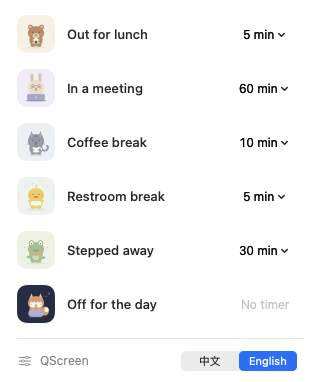
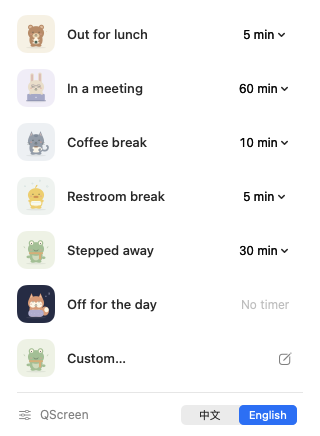
Add custom reason editor with typed minutes and character selection

diff --git a/App/Views.swift b/App/Views.swift
@@ -73,6 +73,20 @@ struct MainView: View {
                             .contentShape(Rectangle())
                     }.buttonStyle(.plain).padding(.bottom, 5)
                 }
+                Button { model.openCustomEditor() } label: {
+                    HStack(spacing: 12) {
+                        Image(systemName: "square.and.pencil").font(.system(size: 18)).frame(width: 52)
+                        Text(model.text("自定义", "Custom")).font(.system(size: 14, weight: .medium))
+                        Spacer()
+                        if model.selectedReason == "custom" && !model.settingsVisible {
+                            Circle().fill(accent).frame(width: 7, height: 7)
+                        }
+                    }
+                    .padding(.horizontal, 9).frame(height: 42)
+                    .background(model.selectedReason == "custom" && !model.settingsVisible ? Color.white.opacity(0.8) : .clear)
+                    .clipShape(RoundedRectangle(cornerRadius: 12))
+                    .contentShape(Rectangle())
+                }.buttonStyle(.plain)
                 Spacer(minLength: 18)
                 Button {
                     model.settingsVisible.toggle()
@@ -93,7 +107,20 @@ struct MainView: View {
                     SettingsView(model: model)
                 } else {
                     HStack {
-                        Text(model.characterName(model.selectedReason)).font(.system(size: 14, weight: .medium))
+                        if model.selectedReason == "custom" {
+                            Menu {
+                                ForEach(model.reasons, id: \.self) { reason in
+                                    Button(model.characterName(reason)) { model.setCustomCharacter(reason) }
+                                }
+                            } label: {
+                                Text(model.characterName(model.customCharacter))
+                                    .font(.system(size: 14, weight: .medium))
+                            }
+                            .menuStyle(.borderlessButton).fixedSize()
+                            .accessibilityLabel(model.text("选择角色", "Choose character"))
+                        } else {
+                            Text(model.characterName(model.selectedReason)).font(.system(size: 14, weight: .medium))
+                        }
                         Spacer()
                         Button { model.showPreview?() } label: { Label(model.text("全屏预览", "Full-screen preview"), systemImage: "arrow.up.left.and.arrow.down.right") }
                             .buttonStyle(.plain).font(.system(size: 12)).foregroundStyle(.secondary)
@@ -101,6 +128,15 @@ struct MainView: View {
                     CharacterScene(session: model.sceneSession)
                         .clipShape(RoundedRectangle(cornerRadius: 22))
                         .overlay(RoundedRectangle(cornerRadius: 22).stroke(ink.opacity(0.06), lineWidth: 1))
+                    if model.selectedReason == "custom" {
+                        HStack(spacing: 12) {
+                            Text(model.text("理由", "Reason")).font(.system(size: 13)).foregroundStyle(.secondary)
+                            TextField(model.text("例如：出门遛狗", "e.g. Walking the dog"), text: Binding(get: { model.customReason }, set: { model.setCustomReason($0) }))
+                                .textFieldStyle(.roundedBorder).font(.system(size: 14))
+                                .accessibilityLabel(model.text("自定义离席理由", "Custom away reason"))
+                            Text("\(model.customReason.count)/40").font(.system(size: 11)).monospacedDigit().foregroundStyle(.secondary)
+                        }.padding(.top, 16)
+                    }
                     HStack(spacing: 10) {
                         if model.selectedReason != "offwork" {
                             Text(model.text("返回时间", "Return in")).font(.system(size: 13)).foregroundStyle(.secondary)
@@ -113,9 +149,7 @@ struct MainView: View {
                                         .clipShape(RoundedRectangle(cornerRadius: 8))
                                 }.buttonStyle(.plain)
                             }
-                            Stepper(value: Binding(get: { model.duration }, set: { model.setDuration($0) }), in: 1...480) {
-                                Text(model.minutesText(model.duration)).monospacedDigit().font(.system(size: 13)).frame(width: 70)
-                            }.fixedSize()
+                            DurationInput(model: model, reason: model.selectedReason).id(model.selectedReason)
                         } else {
                             Label(model.text("展示 5 分钟后允许熄屏", "Display may sleep after 5 minutes"), systemImage: "moon.zzz").font(.system(size: 13)).foregroundStyle(.secondary)
                             Spacer()
@@ -130,7 +164,7 @@ struct MainView: View {
                             Label(model.starting ? model.text("正在启动…", "Starting…") : model.text("开始离席并锁屏", "Start & lock"), systemImage: "lock.fill")
                                 .font(.system(size: 14, weight: .semibold)).padding(.horizontal, 17).padding(.vertical, 13)
                                 .foregroundStyle(.white).background(accent).clipShape(RoundedRectangle(cornerRadius: 12))
-                        }.buttonStyle(.plain).keyboardShortcut(.return, modifiers: .command).disabled(model.starting)
+                        }.buttonStyle(.plain).keyboardShortcut(.return, modifiers: .command).disabled(!model.canStart).opacity(model.canStart ? 1 : 0.45)
                     }.padding(.top, 15)
                 }
             }.padding(28).frame(maxWidth: .infinity, maxHeight: .infinity).background(Color.white)
@@ -264,6 +298,22 @@ struct QuickPicker: View {
                     .clipShape(RoundedRectangle(cornerRadius: 11))
                     .onHover { inside in hoveredReason = inside ? reason : nil }
                 }
+                Button { model.openCustomEditor() } label: {
+                    HStack(spacing: 12) {
+                        CharacterScene(session: model.customSceneSession, characterOnly: true, animated: false)
+                            .frame(width: 38, height: 38).clipShape(RoundedRectangle(cornerRadius: 10))
+                        Text(model.text("自定义…", "Custom…")).font(.system(size: 13, weight: .medium))
+                        Spacer()
+                        Image(systemName: "square.and.pencil").foregroundStyle(.secondary).padding(.trailing, 10)
+                    }
+                    .padding(.horizontal, 9).frame(height: 52)
+                    .background(hoveredReason == "custom" ? Color.primary.opacity(0.055) : .clear)
+                    .clipShape(RoundedRectangle(cornerRadius: 11))
+                    .contentShape(Rectangle())
+                }
+                .buttonStyle(.plain)
+                .disabled(model.starting)
+                .onHover { inside in hoveredReason = inside ? "custom" : nil }
             }
             .padding(8)
             Divider().padding(.horizontal, 17)
@@ -302,5 +352,25 @@ struct LanguageSwitch: View {
         .pickerStyle(.segmented)
         .controlSize(.small)
         .frame(width: 126)
+    }
+}
+
+struct DurationInput: View {
+    @ObservedObject var model: QScreenModel
+    let reason: String
+
+    var body: some View {
+        HStack(spacing: 6) {
+            TextField(model.text("分钟", "Minutes"), value: Binding(get: { model.durations[reason] ?? QSDefaultMinutes(reason) }, set: { model.setDuration($0, reason: reason) }), format: .number.grouping(.never))
+                .textFieldStyle(.roundedBorder)
+                .multilineTextAlignment(.trailing)
+                .monospacedDigit().font(.system(size: 13))
+                .frame(width: 48)
+                .help(model.text("1–480 分钟", "1–480 minutes"))
+                .accessibilityIdentifier("duration-input")
+            Text(model.text("分钟", "min")).font(.system(size: 13)).foregroundStyle(.secondary)
+            Stepper(model.text("分钟", "Minutes"), value: Binding(get: { model.durations[reason] ?? QSDefaultMinutes(reason) }, set: { model.setDuration($0, reason: reason) }), in: 1...480)
+                .labelsHidden().fixedSize()
+        }.fixedSize()
     }
 }

diff --git a/App/QScreenModel.swift b/App/QScreenModel.swift
@@ -15,6 +15,8 @@ final class QScreenModel: ObservableObject {
     @Published var overtime = QSStateStore.overtimeMinutes()
     @Published var hotkeyAvailable = true
     @Published private(set) var language = QSStateStore.language()
+    @Published private(set) var customReason = QSStateStore.customReason()
+    @Published private(set) var customCharacter = QSStateStore.customCharacter()
     var languageDidChange: (() -> Void)?
     var showWindow: (() -> Void)?
     var showPreview: (() -> Void)?
@@ -30,6 +32,8 @@ final class QScreenModel: ObservableObject {
     }
     var ready: Bool { installed && lockPolicy == .immediate && selectedInSystem }
     var duration: Int { durations[selectedReason] ?? QSDefaultMinutes(selectedReason) }
+    var customReasonValid: Bool { !QSNormalizedCustomReason(customReason).isEmpty }
+    var canStart: Bool { !starting && (selectedReason != "custom" || customReasonValid) }
     func text(_ chinese: String, _ english: String) -> String { language == "en" ? english : chinese }
     func reasonTitle(_ reason: String) -> String { QSReasonTitleInLanguage(reason, language) }
     func characterName(_ reason: String) -> String { QSCharacterNameInLanguage(reason, language) }
@@ -41,13 +45,38 @@ final class QScreenModel: ObservableObject {
         languageDidChange?()
     }
     var sceneSession: NSDictionary {
-        let session = NSMutableDictionary(dictionary: QSSession(selectedReason, duration, Date().timeIntervalSince1970))
+        makeSession(reason: selectedReason, minutes: duration)
+    }
+    var customSceneSession: NSDictionary {
+        makeSession(reason: "custom", minutes: durations["custom"] ?? 15)
+    }
+    private func makeSession(reason: String, minutes: Int) -> NSDictionary {
+        let value = reason == "custom" ? QSCustomSession(customReason, customCharacter, minutes, Date().timeIntervalSince1970)
+                                       : QSSession(reason, minutes, Date().timeIntervalSince1970)
+        let session = NSMutableDictionary(dictionary: value)
         session["language"] = language
         return session
     }
 
+    func setCustomReason(_ value: String) {
+        customReason = String(value.prefix(40))
+        QSStateStore.setCustomReason(customReason)
+    }
+    func setCustomCharacter(_ value: String) {
+        guard reasons.contains(value) else { return }
+        customCharacter = value
+        QSStateStore.setCustomCharacter(value)
+    }
+    func openCustomEditor() {
+        selectedReason = "custom"
+        settingsVisible = false
+        dismissPopover?()
+        showWindow?()
+    }
+
     init() {
         for reason in reasons { durations[reason] = QSStateStore.minutes(forReason: reason) }
+        durations["custom"] = QSStateStore.minutes(forReason: "custom")
         refreshReadiness()
         refreshLockPolicy()
         let stored = QSStateStore.readSession() as NSDictionary
@@ -80,12 +109,15 @@ final class QScreenModel: ObservableObject {
 
     func chooseAndStart(_ reason: String) {
         guard !starting else { return }
+        if reason == "custom" { openCustomEditor(); return }
         selectedReason = reason
         startAway()
     }
 
     func startAway(reason overrideReason: String? = nil, minutes overrideMinutes: Int? = nil) {
         guard !starting else { return }
+        // Commit a typed minute value before reading it, including Command-Return.
+        if let window = NSApp.keyWindow, !window.makeFirstResponder(nil) { return }
         refreshReadiness()
         Diagnostics.log("away.request installed=\(installed) selection=\(selectedInSystem)")
         guard installed && selectedInSystem else {
@@ -95,6 +127,12 @@ final class QScreenModel: ObservableObject {
             return
         }
         let reason = overrideReason ?? selectedReason, minutes = overrideMinutes ?? duration
+        let customTitle = QSNormalizedCustomReason(customReason), character = customCharacter
+        guard reason != "custom" || !customTitle.isEmpty else {
+            openCustomEditor()
+            error = text("请填写离席理由。", "Enter an away reason.")
+            return
+        }
         starting = true
         Task { [weak self] in
             guard let self else { return }
@@ -111,7 +149,8 @@ final class QScreenModel: ObservableObject {
                 self.error = self.text("请先在系统锁屏设置中，将启动屏保后要求输入密码设为「立即」。", "In System Settings → Lock Screen, set the password requirement after the screen saver begins to Immediately.")
                 return
             }
-            let session = QSSession(reason, minutes, Date().timeIntervalSince1970)
+            let session = reason == "custom" ? QSCustomSession(customTitle, character, minutes, Date().timeIntervalSince1970)
+                                             : QSSession(reason, minutes, Date().timeIntervalSince1970)
             guard QSStateStore.writeSession(session) else {
                 Diagnostics.log("away.save.failed")
                 self.error = self.text("未能保存离席状态，请重试。", "Could not save your away status. Please try again.")

diff --git a/App/AppDelegate.swift b/App/AppDelegate.swift
@@ -202,7 +202,7 @@ final class AppDelegate: NSObject, NSApplicationDelegate, NSWindowDelegate {
             container.addSubview(scene)
             let hint = NSTextField(labelWithString: model.text("预览 · 按任意键或点击退出", "Preview · Press any key or click to exit"))
             hint.font = .systemFont(ofSize: 12)
-            hint.textColor = model.selectedReason == "offwork" ? .white.withAlphaComponent(0.65) : .secondaryLabelColor
+            hint.textColor = QSSceneCharacter(session as! [AnyHashable: Any]) == "offwork" ? .white.withAlphaComponent(0.65) : .secondaryLabelColor
             hint.alignment = .center
             hint.frame = NSRect(x: 20, y: 20, width: scene.frame.width - 40, height: 24)
             hint.autoresizingMask = [.width, .maxYMargin]
@@ -233,6 +233,24 @@ final class AppDelegate: NSObject, NSApplicationDelegate, NSWindowDelegate {
         view.cacheDisplay(in: view.bounds, to: bitmap)
         let data = bitmap.representation(using: .png, properties: [:])
         try? data?.write(to: URL(fileURLWithPath: path))
+    }
+
+    private func enterText(_ value: String, placeholder: String) -> Bool {
+        func findField(_ view: NSView) -> NSTextField? {
+            if let field = view as? NSTextField, field.placeholderString == placeholder { return field }
+            for child in view.subviews {
+                if let field = findField(child) { return field }
+            }
+            return nil
+        }
+        guard let view = window?.contentView, let field = findField(view) else { return false }
+        window?.makeKeyAndOrderFront(nil)
+        guard window?.makeFirstResponder(field) == true, let editor = field.currentEditor() as? NSTextView else { return false }
+        editor.selectAll(nil)
+        editor.insertText(value, replacementRange: editor.selectedRange())
+        window?.makeFirstResponder(nil)
+        RunLoop.main.run(until: Date().addingTimeInterval(0.1))
+        return true
     }
 
     private func runSmokeTest() {
@@ -291,6 +309,33 @@ final class AppDelegate: NSObject, NSApplicationDelegate, NSWindowDelegate {
         }
         model.setLanguage(originalLanguage)
         model.settingsVisible = false
+        let savedCustomReason = model.customReason, savedCharacter = model.customCharacter
+        let savedCustomMinutes = model.durations["custom"] ?? 15
+        model.openCustomEditor()
+        model.setLanguage("en")
+        model.setCustomReason("")
+        RunLoop.main.run(until: Date().addingTimeInterval(0.1))
+        let emptyCustomBlocked = !model.canStart
+        let typedReason = enterText("Walking the dog", placeholder: "e.g. Walking the dog")
+        let typedMinutes = enterText("25", placeholder: "Minutes")
+        model.setCustomCharacter("coffee")
+        let customInputWorks = typedReason && typedMinutes && model.customReason == "Walking the dog" && model.duration == 25 && model.canStart
+        let customSession = model.sceneSession
+        let customSyncReady = QSValidatedSession(customSession, Date().timeIntervalSince1970)["reason"] as? String == "custom" &&
+            QSSceneTitle(customSession as! [AnyHashable: Any], "en") == "Walking the dog" &&
+            QSSceneCharacter(customSession as! [AnyHashable: Any]) == "coffee"
+        let customDraftSaved = QSStateStore.customReason() == "Walking the dog" && QSStateStore.customCharacter() == "coffee" &&
+            QSStateStore.minutes(forReason: "custom") == 25
+        for language in ["en", "zh"] {
+            model.setLanguage(language)
+            RunLoop.main.run(until: Date().addingTimeInterval(0.15))
+            captureView(window?.contentView, to: "\(directory)/custom-\(language).png")
+        }
+        model.setCustomReason(savedCustomReason)
+        model.setCustomCharacter(savedCharacter)
+        model.setDuration(savedCustomMinutes, reason: "custom")
+        model.setLanguage(originalLanguage)
+        model.selectedReason = "lunch"
         let result: [String: Any] = ["window": window?.isVisible == true,
                                     "presetCount": model.reasons.count,
                                     "durationPersistence": persisted,
@@ -303,6 +348,10 @@ final class AppDelegate: NSObject, NSApplicationDelegate, NSWindowDelegate {
                                     "pickerReopens": pickerReopens,
                                     "languageSwitchAndPersistence": languageSwitchWorks,
                                     "language": model.language,
+                                    "emptyCustomBlocked": emptyCustomBlocked,
+                                    "customTypedInput": customInputWorks,
+                                    "customSessionValidated": customSyncReady,
+                                    "customDraftPersistence": customDraftSaved,
                                     "screens": NSScreen.screens.count,
                                     "screenSizes": NSScreen.screens.map { "\(Int($0.frame.width))×\(Int($0.frame.height))" }]
         if let data = try? JSONSerialization.data(withJSONObject: result, options: [.prettyPrinted, .sortedKeys]) {

diff --git a/README.md b/README.md
@@ -56,6 +56,7 @@ bash scripts/install.sh
 - 点击状态的角色或名称，使用该状态记住的时长开始离席并锁屏。
 - 点击右侧分钟数可以先改时长；主窗口支持 1–480 分钟。
 - 主窗口的「全屏预览」会在所有当前连接的显示器上预览，按键或点击退出。预览不锁屏，画面会明确标注。
+- 选择「自定义 / Custom」，直接填写离席理由和返回分钟数（1–480），可从上方菜单选用已有角色。理由最多 40 个字符，长文字自动缩放换行；草稿会保留，自定义文字不会随中英文切换被翻译。快速菜单的「Custom…」也能进入编辑。
 - App 通过系统进程间通知向原生屏保同步状态和返回时间，各显示器独立适配布局。无有效离席状态时显示「暂时离开」，不显示倒计时。
 - 倒计时结束后显示「还没回来，稍等一下」。额外亮屏时长可设为 0、5、15 或 30 分钟，默认 5 分钟。
 - 下班状态展示 5 分钟，普通无 ETA 的屏保展示 15 分钟，然后释放保持亮屏的请求，实际熄屏时间由系统决定。
@@ -75,6 +76,7 @@ bash scripts/install.sh
 - `App/`：SwiftUI 菜单栏应用、全局快捷键、首次设置和全屏预览。
 - `ScreenSaver/`：Objective-C `ScreenSaverView` 原生屏保模块。
 - `Shared/`：状态模型、本地偏好存储、进程间状态通知和 AppKit 矢量动画。
+- 角色由 AppKit 路径、圆形和曲线直接绘制，眨眼、呼吸及道具动作由时间驱动；无需图片生成服务或位图素材。
 - `Tests/`：状态、存储和渲染测试。
 - `scripts/`：构建、测试、安装和打包。
 

diff --git a/docs/ACCEPTANCE.md b/docs/ACCEPTANCE.md
@@ -10,6 +10,7 @@
 - App 实际启动，渲染主窗口、设置页与快速菜单；检查时长保存和下班无倒计时。
 - 0.2.2 快速菜单检查：无边框面板、屏幕可见区域内定位、实际分发 Esc 键后收起、再次打开，以及浅色/深色模式渲染。
 - 0.3.0 双语检查：菜单和设置提供「中文 / English」切换，主窗口和屏保使用同一语言；检查英文分钟单复数、超时及无倒计时文案、跨进程语言持久化、偏好隔离条件下实时切换语言而不重置会话，以及六种屏保的中英文渲染。
+- 0.4.0 自定义检查：在 App 的实际文本框中输入「Walking the dog」和 25 分钟，预览会话通过校验，理由、角色和时长已保存；空理由不能启动。跨进程测试验证自定义理由、角色、25 分钟截止时间和清除操作；原生模块渲染测试覆盖长英文、中文及 emoji。此次没有触发真实锁屏。
 - Apple Silicon 与 Intel 通用二进制，签名完整性检查。
 - 立即要求密码的策略检测；延迟、失败、未知和矛盾输出均拒绝启动。
 
